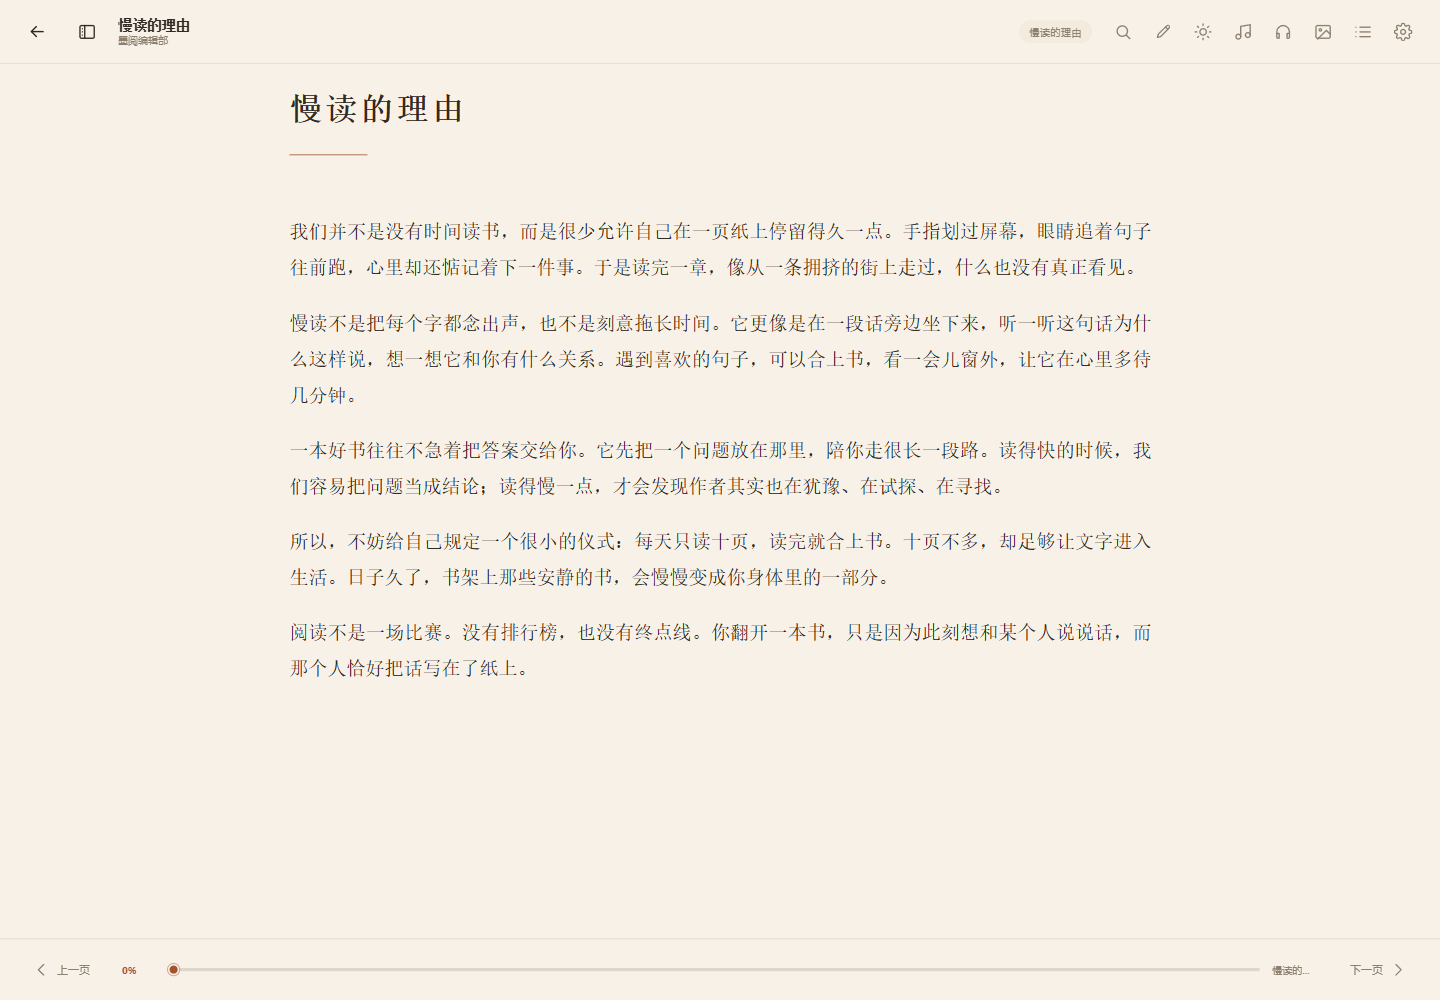
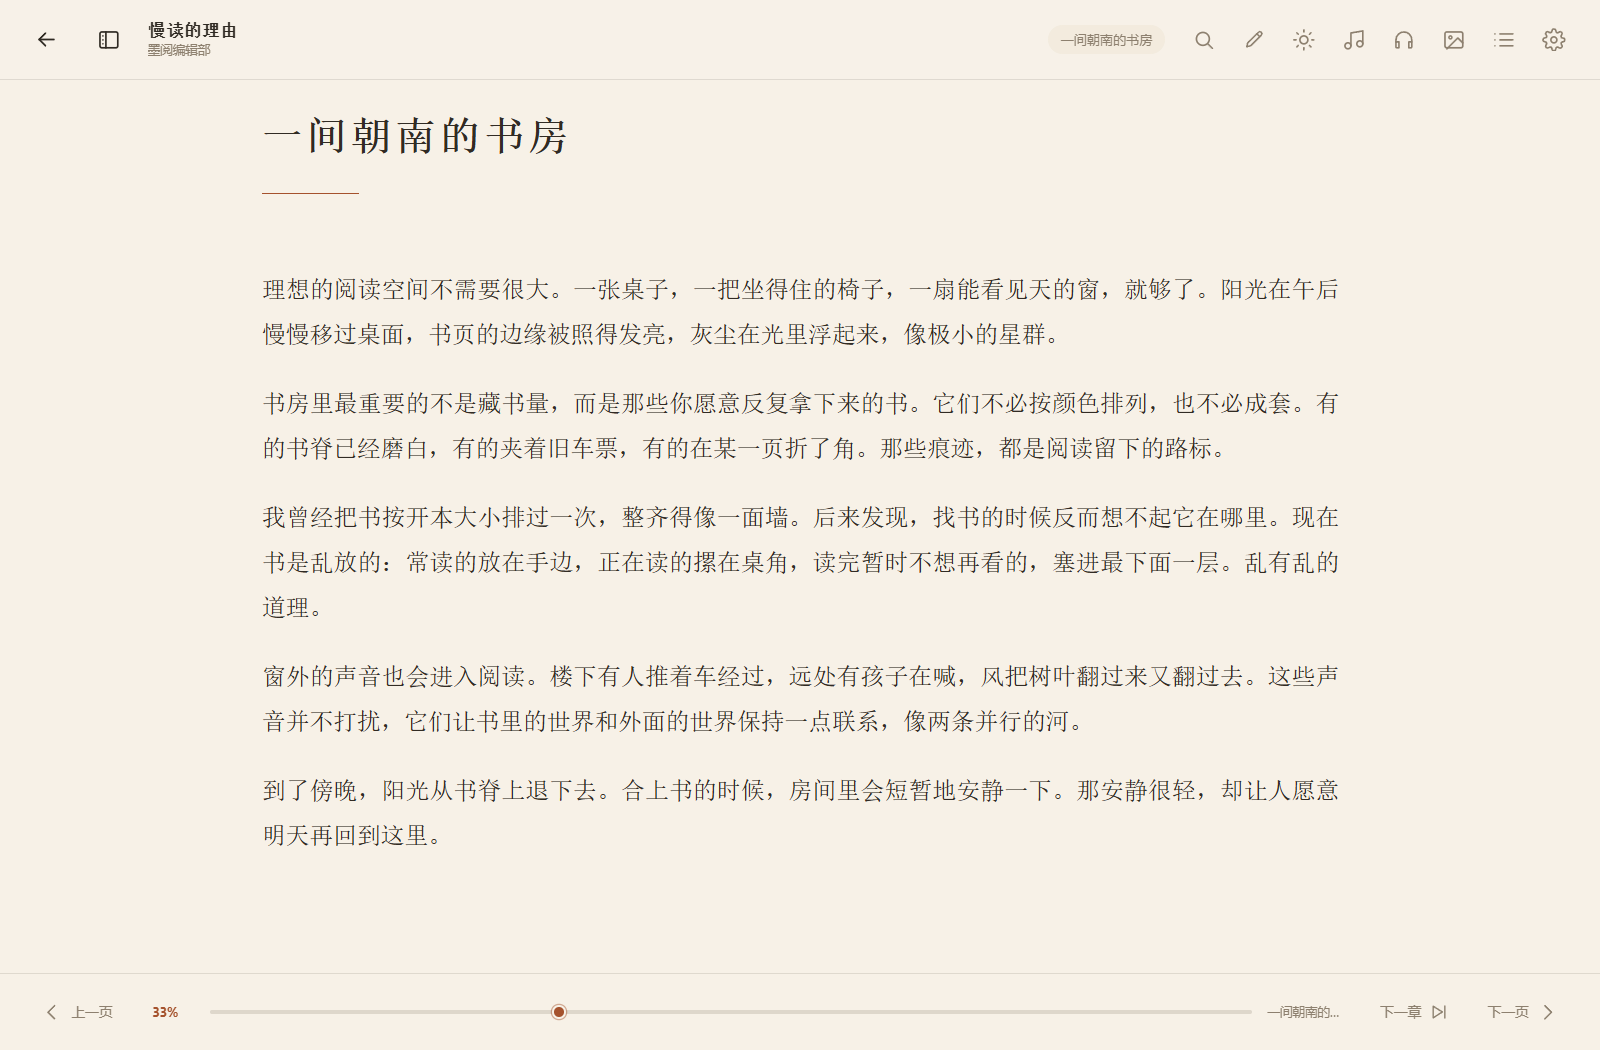
Add TOC chapter locate and next-chapter navigation
Opening the TOC now jumps to the current chapter and offers a locate button; the reader footer gets a next-chapter button that disables on the last chapter. Bump both editions to 0.33.2.

diff --git a/src/components/Reader.tsx b/src/components/Reader.tsx
@@ -118,6 +118,7 @@ export function Reader({
   const [toc, setToc] = useState<TocEntry[]>([]);
   const [currentHref, setCurrentHref] = useState("");
   const [currentLabel, setCurrentLabel] = useState(initialProgress?.chapter || "正文");
+  const [hasNextChapter, setHasNextChapter] = useState(false);
   const [percent, setPercent] = useState(initialProgress?.percent ?? 0);
   const [ready, setReady] = useState(false);
   const [locationsReady, setLocationsReady] = useState(false);
@@ -550,6 +551,22 @@ export function Reader({
         rendition.on("rendered", applyHighlights);
         applyHighlights();
 
+        const markNextChapter = (href: string) => {
+          const chapters = flatTocRef.current;
+          const index = chapters.findIndex(
+            (entry) => (entry.href ?? "").split("#")[0] === href.split("#")[0],
+          );
+          if (index >= 0) {
+            setHasNextChapter(index < chapters.length - 1);
+            return;
+          }
+          const items = book.spine?.spineItems ?? [];
+          const spineIndex = items.findIndex(
+            (item: any) => (item.href ?? "").split("#")[0] === href.split("#")[0],
+          );
+          setHasNextChapter(spineIndex >= 0 && spineIndex < items.length - 1);
+        };
+
         const updateFromLocation = (location: any, allowZero = false) => {
           const href = location?.start?.href ?? "";
           const label = findLabel(tocRef.current, href) || "正文";
@@ -577,6 +594,7 @@ export function Reader({
           }
           setCurrentHref(href);
           setCurrentLabel(label);
+          markNextChapter(href);
           if (location?.start?.cfi) {
             currentCfiRef.current = location.start.cfi;
             onProgressRef.current({
@@ -643,7 +661,10 @@ export function Reader({
           setPercent(ratio);
           setCurrentLabel(label);
           const href = findHrefByLabel(tocRef.current, label);
-          if (href) setCurrentHref(href);
+          if (href) {
+            setCurrentHref(href);
+            markNextChapter(href);
+          }
 
           if (cfi) {
             currentCfiRef.current = cfi;
@@ -1029,6 +1050,36 @@ export function Reader({
     setTocOpen(false);
     void renditionRef.current?.display(href).catch(() => undefined);
   };
+
+  const goToNextChapter = useCallback(async () => {
+    const rendition = renditionRef.current;
+    if (!rendition) return;
+    setSelection(null);
+    const href = (rendition.currentLocation?.()?.start?.href ?? "").split("#")[0];
+    const chapters = flatTocRef.current;
+    const index = chapters.findIndex(
+      (entry) => (entry.href ?? "").split("#")[0] === href,
+    );
+    if (index >= 0 && index < chapters.length - 1) {
+      await rendition.display(chapters[index + 1].href).catch(() => undefined);
+      return;
+    }
+
+    // Books without a usable TOC still have a spine order.
+    const items = bookRef.current?.spine?.spineItems ?? [];
+    const spineIndex = items.findIndex(
+      (item: any) => (item.href ?? "").split("#")[0] === href,
+    );
+    for (let next = spineIndex + 1; next > 0 && next < items.length; next += 1) {
+      if (items[next].linear === false) continue;
+      try {
+        await rendition.display(items[next].href);
+        return;
+      } catch {
+        // Try the following section.
+      }
+    }
+  }, []);
 
   const seek = (value: number) => {
     const book = bookRef.current;
@@ -1613,16 +1664,29 @@ export function Reader({
           <span className="reader__chapter-small">{currentLabel}</span>
         </div>
 
-        {isScrollMode ? (
-          <span className="reader__scroll-hint reader__scroll-hint--right">
-            滚轮 / 触控板
-          </span>
-        ) : (
-          <button className="page-button" onClick={() => void turnPage("next")} aria-label="下一页">
-            <span>下一页</span>
-            <Icon name="right" size={18} />
+        <div className="reader__footer-actions">
+          {isScrollMode ? (
+            <span className="reader__scroll-hint reader__scroll-hint--right">
+              滚轮 / 触控板
+            </span>
+          ) : null}
+          <button
+            className="page-button page-button--chapter"
+            onClick={() => void goToNextChapter()}
+            aria-label="下一章"
+            title="下一章"
+            disabled={!hasNextChapter}
+          >
+            <span>下一章</span>
+            <Icon name="skip-forward" size={16} />
           </button>
-        )}
+          {isScrollMode ? null : (
+            <button className="page-button" onClick={() => void turnPage("next")} aria-label="下一页">
+              <span>下一页</span>
+              <Icon name="right" size={18} />
+            </button>
+          )}
+        </div>
       </footer>
 
       <TtsPlayer

diff --git a/src/components/TocPanel.tsx b/src/components/TocPanel.tsx
@@ -1,3 +1,4 @@
+import { useCallback, useEffect, useRef } from "react";
 import type { TocEntry } from "../types";
 import { Icon } from "./Icons";
 
@@ -9,6 +10,20 @@ interface TocPanelProps {
 }
 
 export function TocPanel({ toc, currentHref, onSelect, onClose }: TocPanelProps) {
+  const listRef = useRef<HTMLDivElement | null>(null);
+
+  const locateCurrent = useCallback((behavior: ScrollBehavior = "smooth") => {
+    const active = listRef.current?.querySelector<HTMLElement>(".toc-item--active");
+    if (!active) return;
+    active.scrollIntoView({ block: "center", behavior });
+  }, []);
+
+  // Opening the TOC should land on the chapter being read, not on page one.
+  useEffect(() => {
+    const timer = window.setTimeout(() => locateCurrent("auto"), 80);
+    return () => window.clearTimeout(timer);
+  }, [locateCurrent, currentHref]);
+
   return (
     <div className="drawer drawer--left" role="dialog" aria-label="目录">
       <div className="drawer__header">
@@ -16,16 +31,36 @@ export function TocPanel({ toc, currentHref, onSelect, onClose }: TocPanelProps)
           <span className="eyebrow">CONTENTS</span>
           <h3>目录</h3>
         </div>
-        <button className="icon-button" onClick={onClose} aria-label="关闭目录">
-          <Icon name="x" size={18} />
-        </button>
+        <div className="toc-actions">
+          <button
+            className="toc-locate"
+            type="button"
+            onClick={() => locateCurrent()}
+            title="跳到正在读的章节"
+            aria-label="跳到当前章节"
+          >
+            <Icon name="bookmark" size={13} />
+            当前章节
+          </button>
+          <button className="icon-button" onClick={onClose} aria-label="关闭目录">
+            <Icon name="x" size={18} />
+          </button>
+        </div>
       </div>
 
-      <div className="toc-list">
+      <div className="toc-list" ref={listRef}>
         {toc.length === 0 ? (
           <p className="toc-list__empty">这本书没有提供目录信息。</p>
         ) : (
-          toc.map((entry) => <TocBranch key={entry.href + entry.label} entry={entry} depth={0} currentHref={currentHref} onSelect={onSelect} />)
+          toc.map((entry) => (
+            <TocBranch
+              key={entry.href + entry.label}
+              entry={entry}
+              depth={0}
+              currentHref={currentHref}
+              onSelect={onSelect}
+            />
+          ))
         )}
       </div>
     </div>

diff --git a/src/styles.css b/src/styles.css
@@ -1910,6 +1910,22 @@ input:focus-visible,
   justify-content: flex-end;
 }
 
+.reader__footer-actions {
+  display: flex;
+  align-items: center;
+  gap: 6px;
+  min-width: 0;
+}
+
+.page-button--chapter {
+  min-width: 0;
+  color: var(--muted);
+}
+
+.page-button--chapter:disabled {
+  opacity: 0.45;
+}
+
 .reader__scroll-hint {
   display: inline-flex;
   min-width: 82px;
@@ -2349,6 +2365,31 @@ input:focus-visible,
   height: 5px;
   background: var(--accent);
   border-radius: 50%;
+}
+
+.toc-actions {
+  display: flex;
+  align-items: center;
+  gap: 6px;
+}
+
+.toc-locate {
+  display: inline-flex;
+  align-items: center;
+  gap: 5px;
+  height: 28px;
+  padding: 0 10px;
+  color: var(--muted);
+  border: 1px solid var(--line);
+  border-radius: 8px;
+  font-size: 9px;
+  white-space: nowrap;
+  transition: color 160ms ease, background-color 160ms ease;
+}
+
+.toc-locate:hover {
+  color: var(--ink);
+  background: var(--surface-2);
 }
 
 .settings-body {

diff --git a/src/components/AppSettingsPanel.tsx b/src/components/AppSettingsPanel.tsx
@@ -84,7 +84,7 @@ export function AppSettingsPanel({
   onInstallUpdate,
   onOpenChangelog,
 }: AppSettingsPanelProps) {
-  const [version, setVersion] = useState("0.33.1");
+  const [version, setVersion] = useState("0.33.2");
   const [dataDir, setDataDir] = useState("");
   const [error, setError] = useState<string | null>(null);
   const [copied, setCopied] = useState(false);

diff --git a/src/App.tsx b/src/App.tsx
@@ -63,7 +63,7 @@ import { ChangelogDialog } from "./components/ChangelogDialog";
 
 const AUTO_BACKUP_KEY = "moyue.backup.auto.v1";
 const AUTO_BACKUP_INTERVAL = 24 * 60 * 60 * 1000;
-const APP_VERSION = "0.33.1";
+const APP_VERSION = "0.33.2";
 
 export default function App() {
   const [library, setLibrary] = useState<BookMeta[]>([]);

diff --git a/README.md b/README.md
@@ -30,6 +30,8 @@ Windows 10/11 安装包：[GitHub Releases](https://github.com/Langlijun666/moyu
 - **自动续读**：记录阅读位置，重新打开回到上次那一页
 - **全文搜索**：搜索整本书的内容，显示章节和上下文，点击结果跳到具体位置
 - **书签**：给当前位置添加书签，在阅读助手中快速跳转或删除
+- **目录定位**：打开目录自动停在正在读的章节，也可以点「当前章节」一键跳回
+- **下一章**：阅读界面底部直接跳到下一章，最后一章自动禁用
 - **划线与笔记**：选中正文划线，支持四种颜色、备注、笔记编辑和点击跳回原文
 - **阅读统计**：记录每天阅读时长、页数、连续天数，提供最近 7 天和半年热力图
 - **两种阅读模式**：左右翻页（按钮 / 滚轮 / 方向键）与上下滚动（一镜到底）

diff --git a/CHANGELOG.md b/CHANGELOG.md
@@ -1,5 +1,10 @@
 # Changelog
 
+## 0.33.2
+
+- 目录打开时自动定位到正在读的章节，并新增「当前章节」按钮
+- 阅读界面底部新增「下一章」按钮，最后一章自动禁用
+
 ## 0.33.1
 
 - 书城界面统一使用「线上书城」文案，不再显示第三方站点名称
